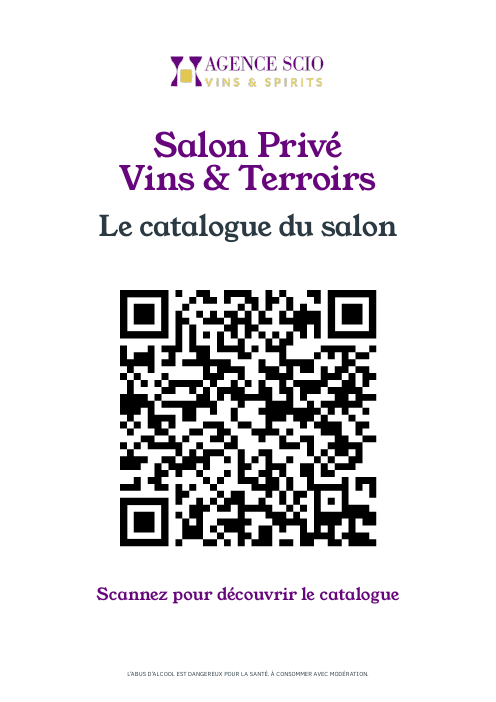
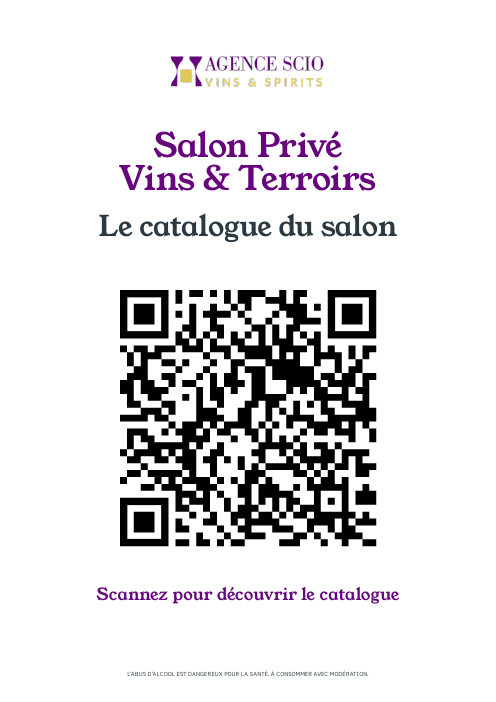
Affiche QR : nouveau QR code fourni par l'agence
Claude-Session: https://claude.ai/code/session_01BT2SN8AgfBZX7MFmrcLc47

Changed region(s): [[0.2419, 0.3889, 0.756, 0.7778]]

diff --git a/JOURNAL.md b/JOURNAL.md
@@ -958,3 +958,4 @@ l'agence (`src/images/qr-catalogue-salon.png`, il mène au PDF du salon sur le D
 pour découvrir le catalogue », message sanitaire. QR relu dans le PDF rendu : bon lien.
 - Refaite sobre en encre à la demande de l'agence : plus de photo en haut, fond blanc, logo,
   « Salon Privé / Vins & Terroirs », « Le catalogue du salon », QR de 120 mm, une ligne.
+- Nouveau QR code fourni par l'agence (l'ancien était une erreur) : il mène à https://drive.google.com/file/d/1MqKTUrDruyCBBxMYoCU3CH6Gh9NiZILF/view ; relu dans le PDF rendu.
